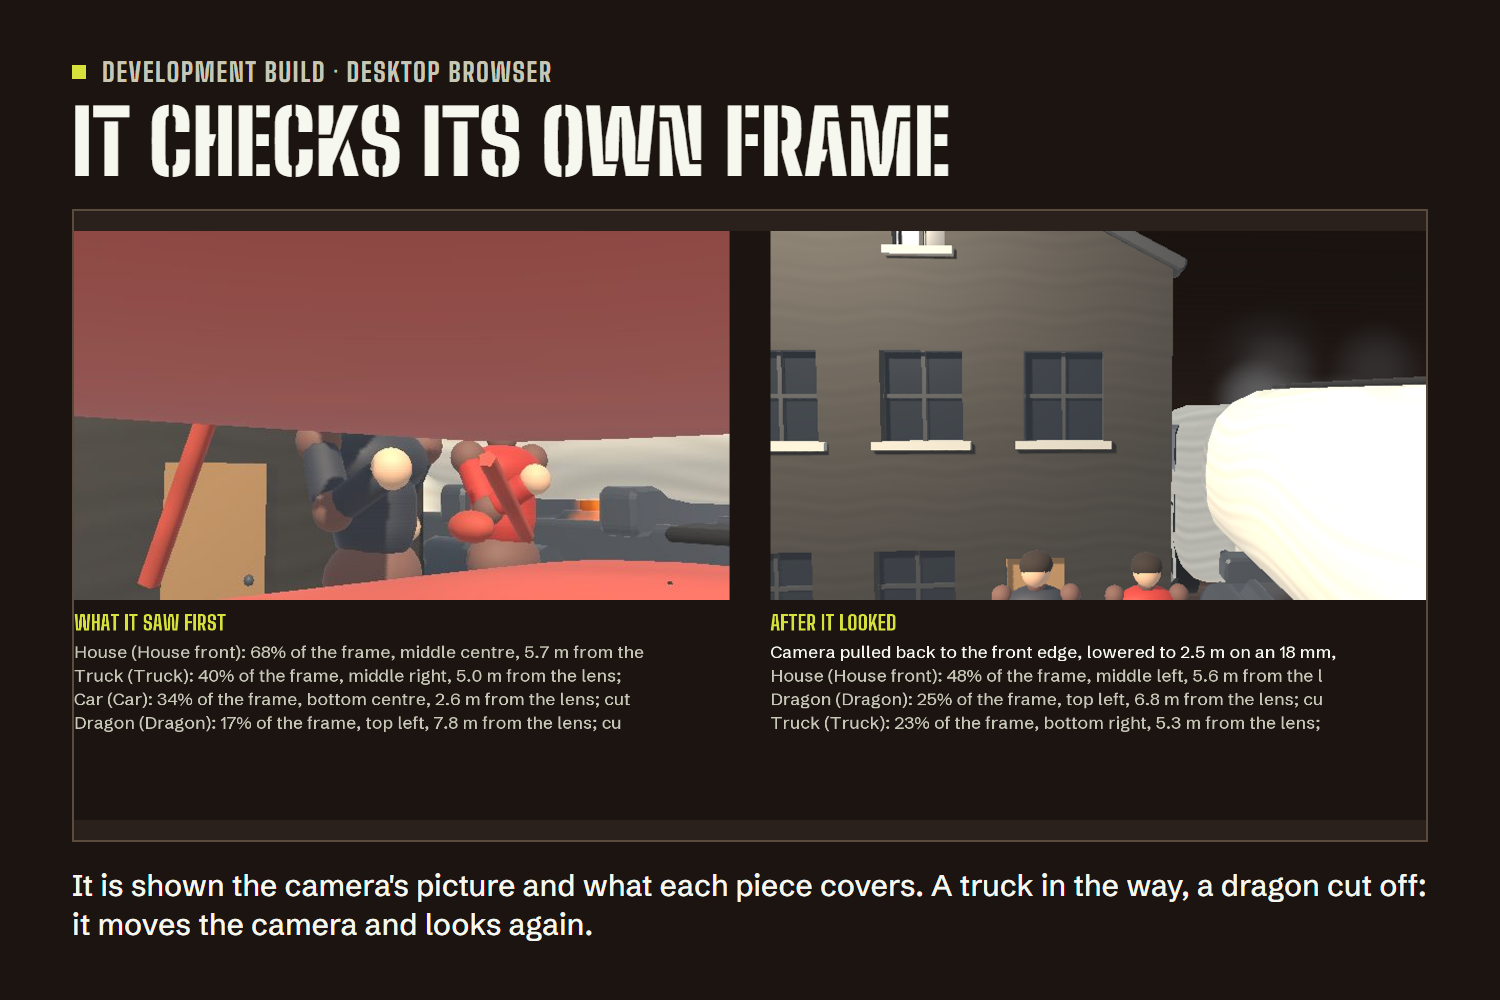
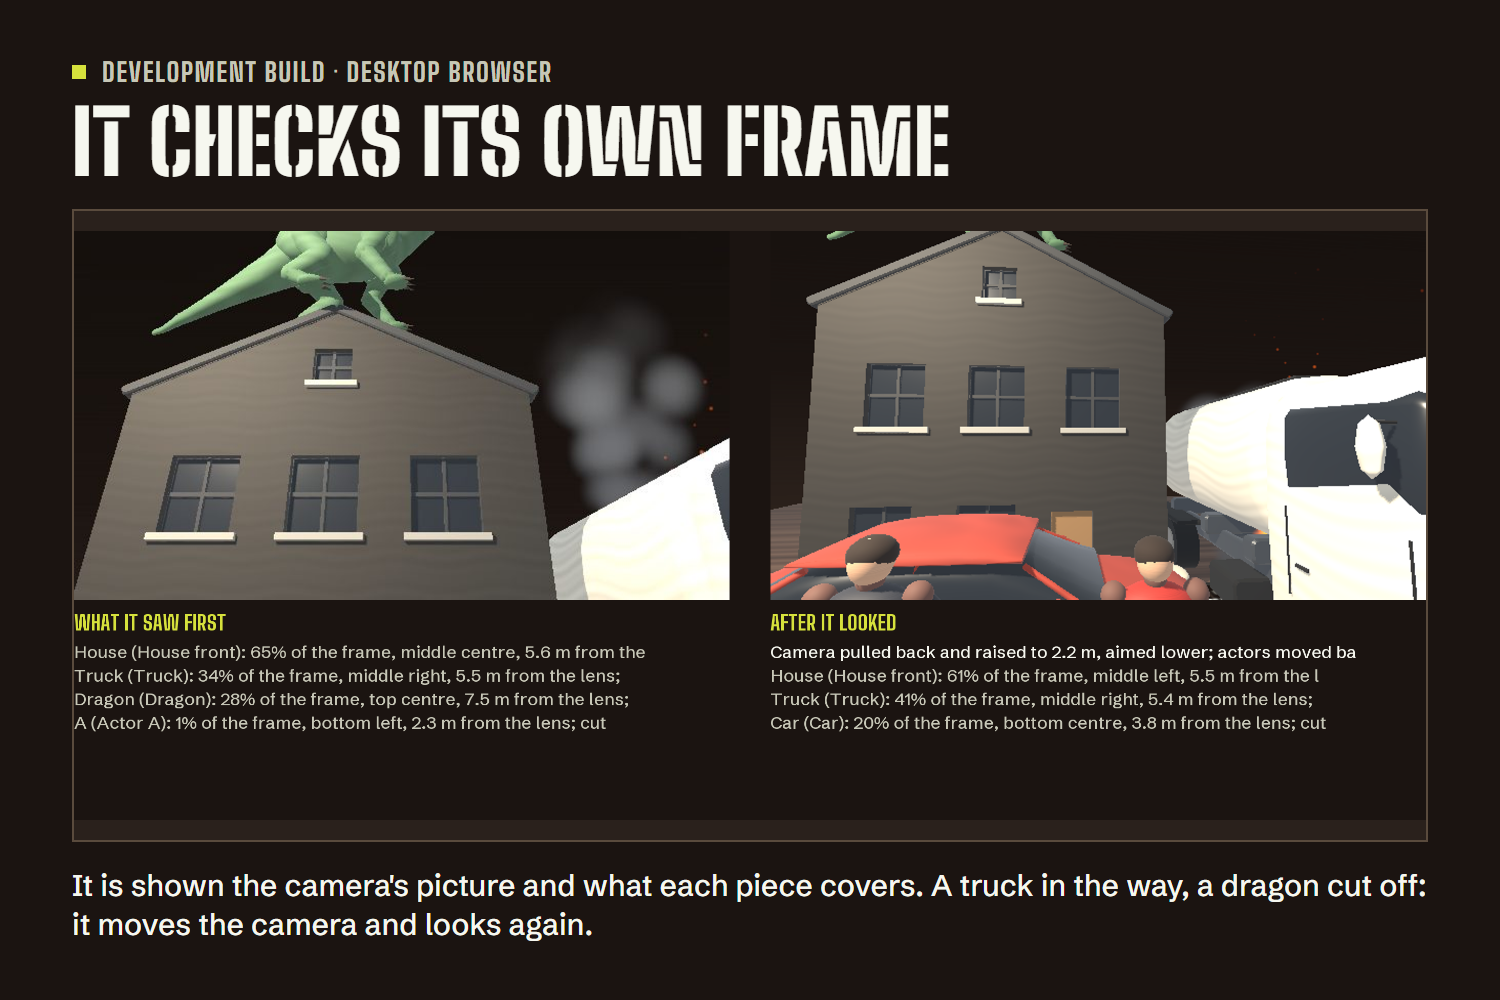
A dragon on a made roof stays there; the second review's fixes
The falling rule tested a made piece's whole box, whose top is its tallest part, so a dragon on a made roof
slab under a chimney counted as inside the house and fell to the slate whenever the set changed. buildMade
keeps each part's box and the pieces system sets things down on a made piece part by part.

From the fresh review of eca6224..HEAD: the set dresser's carry now uses what holds a piece up, read before
anything moves (the highest top at or just under its height, a made piece part by part), instead of any moved
footprint reaching under it, and carries pieces placed earlier too; it runs once per plan; a nudge under 10 cm
slides instead of dropping again; once the last piece lands the set is kept where it rests, not mid-fall; and
the camera operator keeps the lens out of the piece around the subject while still seeing past it.

diff --git a/src/director.ts b/src/director.ts
@@ -33,6 +33,7 @@ type Globals = {
   lastSpoken: Signal<string>;
   designing: Signal<boolean>;
   setsBuilt: Signal<number>;
+  layoutChanged: Signal<number>;
 };
 
 /** Real metres to the slate's, and back. */
@@ -62,6 +63,10 @@ const ROOM = { halfX: 0.3, halfZ: 0.2, overhang: 0.01, bodyGap: 0.01, solidGap: 
 const BODY_HALF = 0.025;
 /** Higher than this off the ground, a piece is up on something or flying, and the set dresser leaves it be. */
 const RAISED = 0.01;
+/** A piece the set dresser moves less than this (slate metres, 10 cm real) is slid, not dropped again. */
+const NUDGE = 0.01;
+/** A raised piece rests on a top no more than this above its own height (slate metres, 6 cm real). */
+const RESTS_ON = 0.006;
 /** A made piece's part counts as standing on the ground within this of its lowest part, and this tall, in real metres. */
 const PART_FOOT = 0.3;
 const PART_TALL = 0.3;
@@ -135,6 +140,7 @@ export class DirectorSystem extends createSystem({
   }
 
   update(delta: number): void {
+    const dropping = this.drops > 0;
     for (let i = 0; i < this.drops; ) {
       const object = this.dropObjects[i]!;
       // A hand took it on the way down: it is the hand's now.
@@ -157,6 +163,11 @@ export class DirectorSystem extends createSystem({
       this.dropT[i] = this.dropT[last];
       this.dropObjects[last] = null;
       this.dropEntities[last] = null;
+    }
+    // The last piece has landed: the set is kept where it rests (it was kept once already, mid-fall, at the plan's end).
+    if (dropping && this.drops === 0) {
+      const g = this.globals as unknown as Globals;
+      g.layoutChanged.value = g.layoutChanged.peek() + 1;
     }
     if (this.drops === 0 && this.pendingCamera != null) {
       const plan = this.pendingCamera;
@@ -417,6 +428,8 @@ class PlanBuild {
   private placed = new Set<string>();
   /** Where each piece this plan put down rests, in slate metres up: it may still be dropping when the reply ends. */
   private restY = new Map<string, number>();
+  /** The set dresser has run for this plan. */
+  private settled = false;
   /** What stood on the set before the plan began: a made piece there is not built over, and a copy there is not borrowed. */
   private before = new Set<string>();
   private removed: string[] = [];
@@ -536,7 +549,8 @@ class PlanBuild {
    * riders on a horse or a bicycle, trees and lamps are left as the designer meant. Returns how many moved.
    */
   settle(drop: (entity: Entity, object: Object3D, y: number) => void): number {
-    if (!this.begun || this.placed.size === 0) return 0;
+    if (!this.begun || this.placed.size === 0 || this.settled) return 0;
+    this.settled = true;
     const tray = this.world.getSystem(TraySystem);
     const made = this.world.getSystem(MadeSystem);
     if (tray == null) return 0;
@@ -550,26 +564,33 @@ class PlanBuild {
       if (entity == null || object == null || !object.visible || entity.hasComponent(Held)) continue;
       standing.push({ label, entity, object, base, rest: this.restY.get(label) ?? object.position.y });
     }
-    // What each effect, and each thing up on a piece, stands on, read before anything moves: for a raised piece
-    // the piece whose top is nearest the height it rests at (the roof under a dragon, not a taller truck parked
-    // beside the house), for an effect on the ground the smallest footprint around it (the car, not the house
-    // front behind it).
+    // What each effect, and each thing up on a piece, stands on, read before anything moves. A raised piece rests
+    // on the highest top at or just below its own height (a made piece is read part by part, so a dragon is on the
+    // roof slab, not on the chimney, and not on a taller truck parked beside the house); an effect on the ground
+    // stands on the smallest footprint around it (the car, not the house front behind it).
     const under = new Map<Standing, Standing>();
     const supports: { one: Standing; foot: Footing; top: number }[] = [];
     for (const one of standing) {
       if (one.base.shelf === 'Effects' || one.rest > RAISED) continue;
+      const def = isMade(one.label) ? made?.defIn(one.label) : null;
+      if (def != null) {
+        for (const part of partTops(one.object, def.parts)) supports.push({ one, foot: part.foot, top: one.rest + part.top });
+        continue;
+      }
       const box = localBounds(one.object);
       const foot = footingOf(one.object, 'free', true, false);
       if (box.isEmpty() || foot == null) continue;
       supports.push({ one, foot, top: one.rest + box.max.y * one.object.scale.y });
     }
     for (const one of standing) {
-      if (!this.placed.has(one.label) || (one.base.shelf !== 'Effects' && one.rest <= RAISED)) continue;
+      if (one.base.shelf !== 'Effects' && one.rest <= RAISED) continue;
+      const raised = one.rest > RAISED;
       let best: Standing | null = null;
       let score = Infinity;
       for (const support of supports) {
         if (support.one === one || !holds(support.foot, one.object.position.x, one.object.position.z)) continue;
-        const value = one.rest > RAISED ? Math.abs(support.top - one.rest) : support.foot.hx * support.foot.hz;
+        if (raised && support.top > one.rest + RESTS_ON) continue;
+        const value = raised ? -support.top : support.foot.hx * support.foot.hz;
         if (value < score) {
           score = value;
           best = support.one;
@@ -635,15 +656,17 @@ class PlanBuild {
     if (feet.length > 0) apply(feet, owners);
     if (moves.length === 0) return 0;
     // What stood on a piece that moved goes with it: fire on a car, a dragon on a roof, a lamp on a table.
-    for (const one of standing) {
-      if (!this.placed.has(one.label) || (one.base.shelf !== 'Effects' && one.rest <= RAISED)) continue;
-      const under = moves.find((move) => holds(move.foot, one.object.position.x, one.object.position.z));
-      if (under == null) continue;
-      one.object.position.x += under.dx;
-      one.object.position.z += under.dz;
-      moves.push({ standing: one, dx: under.dx, dz: under.dz, foot: under.foot });
+    for (const [one, base] of under) {
+      const move = moves.find((moved) => moved.standing === base);
+      if (move == null) continue;
+      one.object.position.x += move.dx;
+      one.object.position.z += move.dz;
+      moves.push({ standing: one, dx: move.dx, dz: move.dz, foot: move.foot });
     }
-    for (const move of moves) drop(move.standing.entity, move.standing.object, move.standing.rest);
+    // A piece moved far enough to see drops onto its new mark; a nudge is only a nudge.
+    for (const move of moves) {
+      if (Math.hypot(move.dx, move.dz) >= NUDGE) drop(move.standing.entity, move.standing.object, move.standing.rest);
+    }
     this.world.getSystem(ViewfinderSystem)?.refresh();
     return moves.length;
   }
@@ -770,6 +793,37 @@ function groundParts(object: Object3D, lines: string[]): Footing[] {
     });
   }
   return feet;
+}
+
+/** Every part of a made piece as a footprint and the height of its top above the piece's origin, slate metres. */
+function partTops(object: Object3D, lines: string[]): { foot: Footing; top: number }[] {
+  const parts = lines.map(readPart).filter((part): part is NonNullable<typeof part> => part != null);
+  if (parts.length === 0) return [];
+  // The piece was built with its lowest point on the ground.
+  let low = Infinity;
+  for (const part of parts) low = Math.min(low, part.y - part.h / 2);
+  const scale = object.scale.x * SLATE;
+  const yaw = object.rotation.y;
+  const c = Math.cos(yaw);
+  const s = Math.sin(yaw);
+  return parts.map((part) => {
+    const x = part.x * scale;
+    const z = part.z * scale;
+    return {
+      foot: {
+        x: object.position.x + x * c + z * s,
+        z: object.position.z - x * s + z * c,
+        hx: (part.w / 2) * scale,
+        hz: (part.d / 2) * scale,
+        yaw: yaw + part.yaw * DEG,
+        kind: 'free' as Kind,
+        fixed: true,
+        weight: 0,
+        keepOn: false,
+      },
+      top: (part.y + part.h / 2 - low) * scale,
+    };
+  });
 }
 
 /** Whether a point on the stage lies within a footprint, with a few millimetres to spare. */

diff --git a/src/pieces.ts b/src/pieces.ts
@@ -277,6 +277,8 @@ export class PiecesSystem extends createSystem({
   private bounds: Box3[] = [];
   /** The shape of each piece that others can be set down on, by index; null for the rest. */
   private solids: (Box3 | null)[] = [];
+  /** A made piece's parts, each a box something can be set down on, by index; null for every other piece. */
+  private surfaces: (Box3[] | null)[] = [];
   /** The shape a rolling vehicle stops against, for every piece that has one: not an effect, an actor or a camera. */
   private blockers: (Box3 | null)[] = [];
   /** How far each piece reaches from its own origin, by index: a quick way to rule a hand out. */
@@ -1009,13 +1011,15 @@ export class PiecesSystem extends createSystem({
    * whether it stops a rolling car are worked out again from the shape it has now. Called when a piece is
    * made, never in a frame.
    */
-  reshape(piece: Entity, radius: number, height: number): void {
+  reshape(piece: Entity, radius: number, height: number, surfaces: Box3[] = []): void {
     const index = this.dressed.indexOf(piece);
     const object = piece.object3D;
     if (index < 0 || object == null) return;
     const shape = localBounds(object);
     const asset = assetByLabel(String(piece.getValue(SetPiece, 'label')));
     this.solids[index] = asset?.solid === true && !shape.isEmpty() ? shape.clone() : null;
+    // Set down on part by part: a roof slab under a chimney holds what stands on it.
+    this.surfaces[index] = this.solids[index] != null && surfaces.length > 0 ? surfaces.map((box) => box.clone()) : null;
     this.blockers[index] = asset != null && !ROLL_THROUGH.has(asset.shelf) && !shape.isEmpty() ? shape.clone() : null;
     const room = shape.isEmpty() ? radius : Math.min(radius, THIN_REACH);
     shape.expandByPoint(this.local.set(room, height, room));
@@ -1044,6 +1048,7 @@ export class PiecesSystem extends createSystem({
     const asset = assetByLabel(String(piece.getValue(SetPiece, 'label')));
     const role = piece.getValue(SetPiece, 'role');
     this.solids.push(asset?.solid === true ? shape.clone() : null);
+    this.surfaces.push(null);
     const inTheWay = asset != null && (!ROLL_THROUGH.has(asset.shelf) || asset.mover === true) && role !== SetRole.Actor && role !== SetRole.Camera && !shape.isEmpty();
     this.blockers.push(inTheWay ? shape.clone() : null);
     // A thin piece gets room around it for the hand; a big one is its own shape, so a hand
@@ -1094,10 +1099,16 @@ export class PiecesSystem extends createSystem({
       const other = this.dressed[j].object3D;
       if (other == null || !other.visible || other.parent !== object.parent || this.dressed[j].hasComponent(Held)) continue;
       other.worldToLocal(this.local.copy(this.point));
-      if (this.local.x < box.min.x || this.local.x > box.max.x || this.local.z < box.min.z || this.local.z > box.max.z) continue;
-      const height = other.position.y + box.max.y * other.scale.y;
-      if (object.position.y < height - STACK_SLACK) continue;
-      if (height > top) top = height;
+      // A made piece is tried part by part; anything else as its whole shape.
+      const parts = this.surfaces[j];
+      const count = parts == null ? 1 : parts.length;
+      for (let k = 0; k < count; k++) {
+        const part = parts == null ? box : parts[k];
+        if (this.local.x < part.min.x || this.local.x > part.max.x || this.local.z < part.min.z || this.local.z > part.max.z) continue;
+        const height = other.position.y + part.max.y * other.scale.y;
+        if (object.position.y < height - STACK_SLACK) continue;
+        if (height > top) top = height;
+      }
     }
     return top;
   }
@@ -1319,12 +1330,13 @@ export class PiecesSystem extends createSystem({
       const box = localBounds(object);
       if (box.isEmpty()) continue;
       const toPiece = object.matrix.clone().invert();
-      // The subject inside it: the car the actor is in, the doorway they stand in.
-      if (box.containsPoint(there.copy(subject).applyMatrix4(toPiece))) continue;
+      // The subject inside it (the car the actor is in, the doorway they stand in) is not in the way of the line
+      // to the subject, but the lens still keeps out of it.
+      const holdsSubject = box.containsPoint(there.copy(subject).applyMatrix4(toPiece));
       // A margin of 6 mm on the slate, whatever the piece's size.
       boxes.push(box.expandByScalar(0.006 / Math.max(1e-3, object.scale.x)));
       into.push(toPiece);
-      blocks.push(piece.getValue(SetPiece, 'role') !== SetRole.Actor);
+      blocks.push(!holdsSubject && piece.getValue(SetPiece, 'role') !== SetRole.Actor);
     }
     const lens = new Vector3();
     const ray = new Ray();

diff --git a/src/made-shapes.ts b/src/made-shapes.ts
@@ -5,6 +5,7 @@
  * made, never in a frame.
  */
 import {
+  Box3,
   BoxGeometry,
   BufferGeometry,
   Color,
@@ -76,7 +77,7 @@ export type Footprint = { w: number; d: number; h: number };
  * One mesh's worth of parts. Lines that cannot be read are left out; a piece with nothing readable in it
  * comes back as null, and is not made.
  */
-export function buildMade(lines: string[]): { geometry: BufferGeometry; footprint: Footprint; parts: number } | null {
+export function buildMade(lines: string[]): { geometry: BufferGeometry; footprint: Footprint; parts: number; surfaces: Box3[] } | null {
   const parts = lines.map(readPart).filter((part): part is Part => part != null);
   if (parts.length === 0) return null;
   // The lowest point of the piece goes on the ground, whatever heights were written.
@@ -95,8 +96,12 @@ export function buildMade(lines: string[]): { geometry: BufferGeometry; footprin
   const v = new Vector3();
   const colour = new Color();
   let o = 0;
+  // Each part's own box, in the piece's frame: what can be set down on, part by part.
+  const surfaces: Box3[] = [];
   for (const part of parts) {
     const source = unit(part.shape);
+    const surface = new Box3();
+    surfaces.push(surface);
     euler.set(part.pitch * DEG, part.yaw * DEG, part.roll * DEG, 'YXZ');
     rotation.setFromEuler(euler);
     matrix.compose(at.set(part.x * SCALE, part.y * SCALE, part.z * SCALE), rotation, size.set(part.w * SCALE, part.h * SCALE, part.d * SCALE));
@@ -107,6 +112,7 @@ export function buildMade(lines: string[]): { geometry: BufferGeometry; footprin
     const t = source.attributes.uv;
     for (let i = 0; i < p.count; i++, o++) {
       v.fromBufferAttribute(p, i).applyMatrix4(matrix);
+      surface.expandByPoint(v);
       positions[o * 3] = v.x;
       positions[o * 3 + 1] = v.y;
       positions[o * 3 + 2] = v.z;
@@ -123,7 +129,13 @@ export function buildMade(lines: string[]): { geometry: BufferGeometry; footprin
   }
   let low = Infinity;
   for (let i = 1; i < positions.length; i += 3) low = Math.min(low, positions[i]);
-  if (Number.isFinite(low) && Math.abs(low) > 1e-5) for (let i = 1; i < positions.length; i += 3) positions[i] -= low;
+  if (Number.isFinite(low) && Math.abs(low) > 1e-5) {
+    for (let i = 1; i < positions.length; i += 3) positions[i] -= low;
+    for (const surface of surfaces) {
+      surface.min.y -= low;
+      surface.max.y -= low;
+    }
+  }
   const geometry = new BufferGeometry();
   geometry.setAttribute('position', new Float32BufferAttribute(positions, 3));
   geometry.setAttribute('normal', new Float32BufferAttribute(normals, 3));
@@ -137,5 +149,5 @@ export function buildMade(lines: string[]): { geometry: BufferGeometry; footprin
     d: (box.max.z - box.min.z) / SCALE,
     h: (box.max.y - box.min.y) / SCALE,
   };
-  return { geometry, footprint, parts: parts.length };
+  return { geometry, footprint, parts: parts.length, surfaces };
 }

diff --git a/src/made.ts b/src/made.ts
@@ -5,7 +5,7 @@
  * visits and in every frame's setup, so going back to a frame brings its made pieces back too.
  */
 import { createSystem, Entity, Mesh, MeshStandardMaterial } from '@iwsdk/core';
-import type { BufferGeometry } from '@iwsdk/core';
+import type { Box3, BufferGeometry } from '@iwsdk/core';
 import type { Signal } from '@preact/signals-core';
 import { ASSETS, isMade, MADE_PREFIX, MADE_SLOTS } from './catalog.js';
 import { buildMade } from './made-shapes.js';
@@ -29,7 +29,7 @@ export class MadeSystem extends createSystem({
   pieces: { required: [SetPiece] },
 }) {
   private defs = new Map<string, MadeDef>();
-  private built = new Map<string, { geometry: BufferGeometry; footprint: Footprint }>();
+  private built = new Map<string, { geometry: BufferGeometry; footprint: Footprint; surfaces: Box3[] }>();
   /** Which made piece is in each place. */
   private slots = new Map<string, string>();
   /** When each place was last given a piece, so the one left longest is taken first. */
@@ -165,7 +165,7 @@ export class MadeSystem extends createSystem({
     if (built == null) {
       const made = buildMade(def.parts);
       if (made == null) return;
-      built = { geometry: made.geometry, footprint: made.footprint };
+      built = { geometry: made.geometry, footprint: made.footprint, surfaces: made.surfaces };
       this.built.set(id, built);
     }
     body.geometry = built.geometry;
@@ -178,7 +178,7 @@ export class MadeSystem extends createSystem({
       asset.title = def.name;
       asset.grab = [radius, height];
     }
-    this.world.getSystem(PiecesSystem)?.reshape(piece, radius, height);
+    this.world.getSystem(PiecesSystem)?.reshape(piece, radius, height, built.surfaces);
     this.world.getSystem(ViewfinderSystem)?.refresh();
     this.forgetUnused();
     if (keep) this.save();

diff --git a/tools/gallery.py b/tools/gallery.py
@@ -305,10 +305,16 @@ async def live_capture(browser, recipe: str, out: Path) -> Path:
         await page.wait_for_function('globalThis.setpiece.world.globals.designing.peek() === true', timeout=20000)
         await page.wait_for_function('globalThis.setpiece.world.globals.designing.peek() === false', timeout=90000)
         # The looks through the lens follow by themselves; the page's own view then glides to frame the set.
-        for _ in range(2):
-            await page.wait_for_timeout(1800)
-            await page.wait_for_function('globalThis.setpiece.world.globals.designing.peek() === false', timeout=90000)
-        await page.wait_for_timeout(2500)
+        # Under software GL a frame takes most of a second, so a look can start well after the last one ended: the
+        # designer must have been idle for eight seconds running before the picture is taken.
+        idle = 0
+        for _ in range(400):
+            await page.wait_for_timeout(500)
+            busy = await page.evaluate('globalThis.setpiece.world.globals.designing.peek()')
+            idle = 0 if busy else idle + 1
+            if idle >= 16:
+                break
+        await page.wait_for_timeout(1000)
         lens = '''() => { const v = [...globalThis.setpiece.world.getSystems()].find((s) => typeof s.copyMonitor === 'function');
           v.refresh(); const c = document.createElement('canvas'); v.copyMonitor(c); return c.toDataURL('image/png'); }'''
         if recipe == 'designer':
